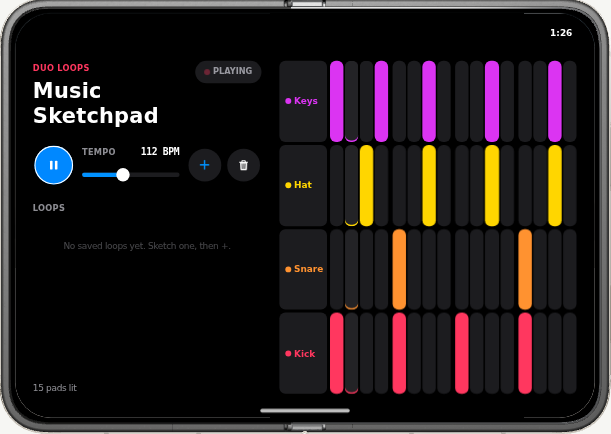
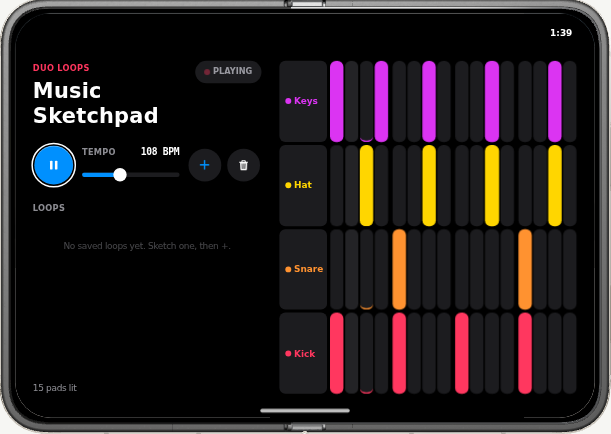
music-sketchpad: replace custom box-shadow recipes with borders and outlines
DESIGN.md section 3 limits shadow to the four shadow tokens; the polish pass had built inset-geometry boxShadow strings that happened to pass the token gate. Playhead edges and label accents are now flat colored borders, the play orb ring and slider focus are outlines, and loop selection keeps its inner ring via a negative outline offset. Screenshots recaptured: cover now shows the post-wake PLAYING state without the asleep hint.

diff --git a/community-apps/music-sketchpad/styles.ts b/community-apps/music-sketchpad/styles.ts
@@ -143,7 +143,7 @@ export const styles = stylex.create({
     transform: { default: 'scale(1)', ':active': motion.press }
   },
   // The orb carries the one state cue beyond the glyph swap while running.
-  playButtonOn: { boxShadow: `${shadow.rim},${shadow.float},inset 0 0 0 1.5px ${colors.white}` },
+  playButtonOn: { outlineWidth: 2, outlineStyle: 'solid', outlineColor: colors.white, outlineOffset: 2 },
   playGlyph: { transform: 'translateX(1px)', display: 'flex' },
   tempoBox: {
     flexGrow: 1,
@@ -174,8 +174,10 @@ export const styles = stylex.create({
     cursor: 'pointer',
     touchAction: 'none',
     borderRadius: radius.sm,
-    outlineWidth: 0,
-    boxShadow: { ':focus-visible': `inset 0 0 0 1.5px ${app.link}` }
+    outlineStyle: 'solid',
+    outlineWidth: { default: 0, ':focus-visible': 2 },
+    outlineColor: app.link,
+    outlineOffset: 2
   },
   sliderTrack: {
     position: 'relative',
@@ -283,7 +285,7 @@ export const styles = stylex.create({
     paddingBlock: 0,
     paddingInline: 0,
     transform: { default: 'scale(1)', ':active': motion.press },
-    transitionProperty: 'transform, background-color, box-shadow',
+    transitionProperty: 'transform, background-color',
     transitionDuration: '.12s',
     transitionTimingFunction: easing.pop
   },
@@ -294,10 +296,10 @@ export const styles = stylex.create({
   padPlayLit: { transform: 'scale(1.12)' },
   // The playhead also reads as a four-colour underline, one hue per track,
   // so the current step is visible even on unlit cells.
-  edgeKeys: { boxShadow: `inset 0 -2px 0 0 ${colors.purpleDark}` },
-  edgeHat: { boxShadow: `inset 0 -2px 0 0 ${colors.yellowDark}` },
-  edgeSnare: { boxShadow: `inset 0 -2px 0 0 ${colors.orangeDark}` },
-  edgeKick: { boxShadow: `inset 0 -2px 0 0 ${colors.pinkDark}` },
+  edgeKeys: { borderBottomWidth: 2, borderBottomStyle: 'solid', borderBottomColor: colors.purpleDark },
+  edgeHat: { borderBottomWidth: 2, borderBottomStyle: 'solid', borderBottomColor: colors.yellowDark },
+  edgeSnare: { borderBottomWidth: 2, borderBottomStyle: 'solid', borderBottomColor: colors.orangeDark },
+  edgeKick: { borderBottomWidth: 2, borderBottomStyle: 'solid', borderBottomColor: colors.pinkDark },
   padLit: {
     animationName: { default: padIn, [reduce]: 'none' },
     animationDuration: '.18s',
@@ -318,10 +320,10 @@ export const styles = stylex.create({
   labelMuted: { textDecorationLine: 'line-through' },
   // A track-colour accent tops each cover label so the column's hue reads even
   // before any pad is lit.
-  accentKeys: { boxShadow: `inset 0 2px 0 0 ${colors.purpleDark}` },
-  accentHat: { boxShadow: `inset 0 2px 0 0 ${colors.yellowDark}` },
-  accentSnare: { boxShadow: `inset 0 2px 0 0 ${colors.orangeDark}` },
-  accentKick: { boxShadow: `inset 0 2px 0 0 ${colors.pinkDark}` },
+  accentKeys: { borderTopWidth: 2, borderTopStyle: 'solid', borderTopColor: colors.purpleDark },
+  accentHat: { borderTopWidth: 2, borderTopStyle: 'solid', borderTopColor: colors.yellowDark },
+  accentSnare: { borderTopWidth: 2, borderTopStyle: 'solid', borderTopColor: colors.orangeDark },
+  accentKick: { borderTopWidth: 2, borderTopStyle: 'solid', borderTopColor: colors.pinkDark },
   labelDot: { width: 8, height: 8, borderRadius: radius.circle, flexShrink: 0 },
   dotKeys: { backgroundColor: colors.purpleDark },
   dotHat: { backgroundColor: colors.yellowDark },
@@ -397,7 +399,13 @@ export const styles = stylex.create({
     backgroundColor: app.fill3,
     overflow: 'hidden'
   },
-  loopChipOn: { backgroundColor: app.fill2, boxShadow: `inset 0 0 0 1.5px ${colors.pinkDark}` },
+  loopChipOn: {
+    backgroundColor: app.fill2,
+    outlineWidth: 1.5,
+    outlineStyle: 'solid',
+    outlineColor: colors.pinkDark,
+    outlineOffset: -1.5
+  },
   loopLoad: {
     borderWidth: 0,
     paddingBlock: space.sm,
@@ -440,7 +448,13 @@ export const styles = stylex.create({
     animationTimingFunction: easing.push,
     animationFillMode: 'backwards'
   },
-  loopRowOn: { backgroundColor: app.fill2, boxShadow: `inset 0 0 0 1.5px ${colors.pinkDark}` },
+  loopRowOn: {
+    backgroundColor: app.fill2,
+    outlineWidth: 1.5,
+    outlineStyle: 'solid',
+    outlineColor: colors.pinkDark,
+    outlineOffset: -1.5
+  },
   loopRowLoad: {
     flexGrow: 1,
     minWidth: 0,
